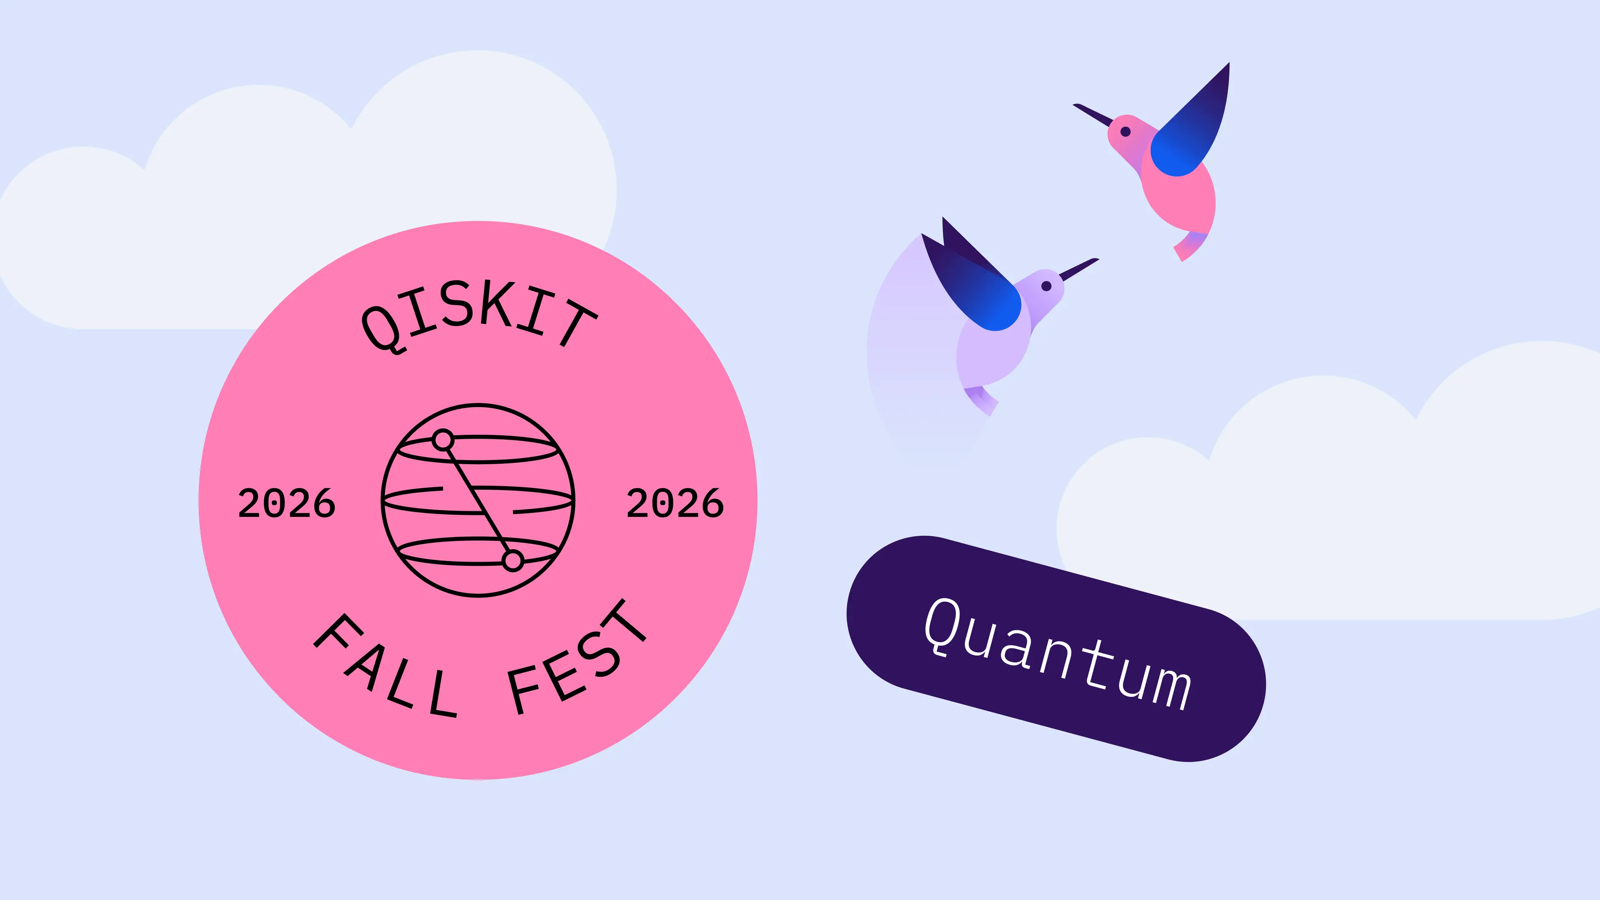
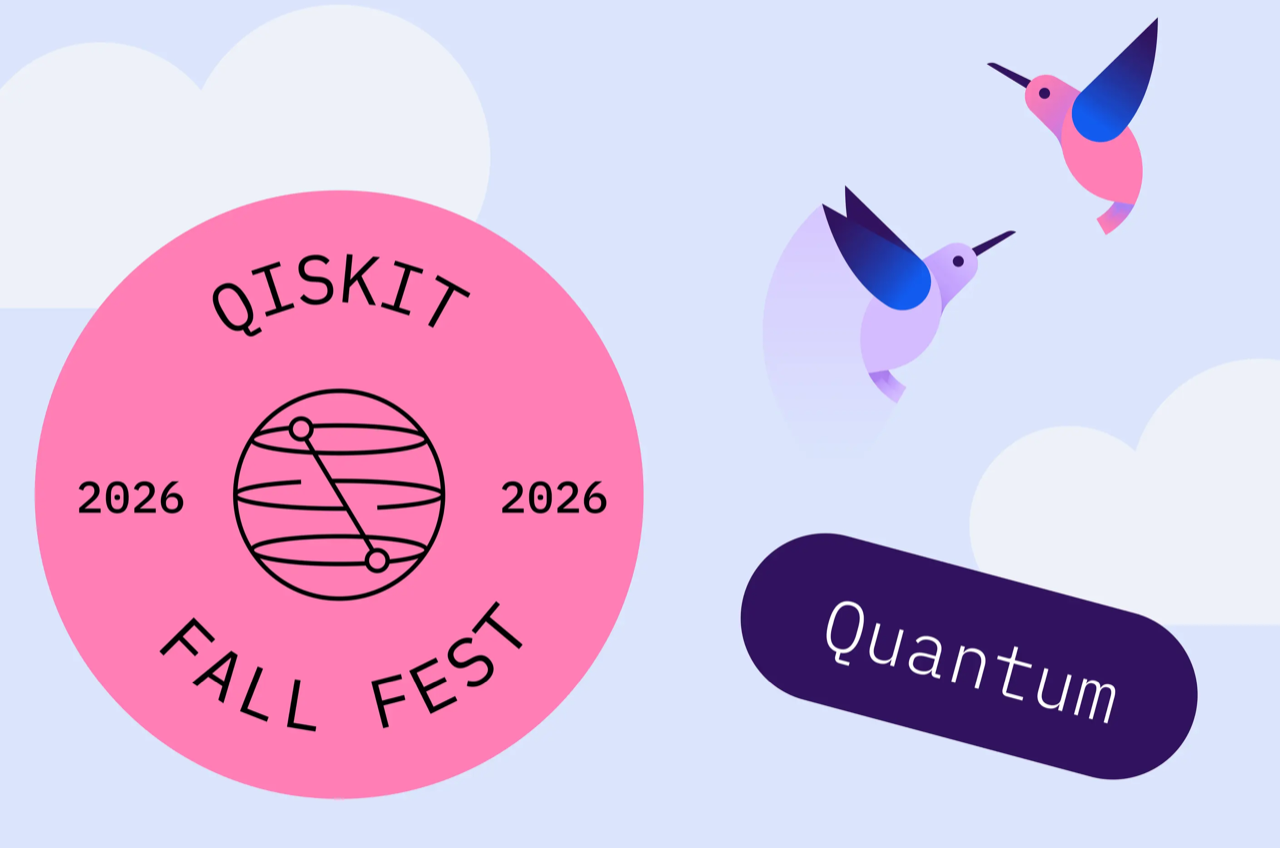
Crop the artwork to its content
The supplied image was 16:9 with a lot of empty sky, so next to a
short heading it read as a thin strip with dead space under it. Cropped
to the badge, both birds and the pill, it is now roughly 3:2 and the
composition fills its frame.

The image column is also wider than the text column now, at 1.25fr to
1fr, so the artwork carries the row rather than floating in it.

Smaller too: 1280x848 and 294KB, down from 1600x900.

diff --git a/qiskit-fall-fest-2026/index.html b/qiskit-fall-fest-2026/index.html
@@ -24,7 +24,7 @@
 <link rel="preconnect" href="https://fonts.googleapis.com">
 <link rel="preconnect" href="https://fonts.gstatic.com" crossorigin>
 <link rel="stylesheet" href="https://fonts.googleapis.com/css2?family=IBM+Plex+Mono:wght@400;500;600&family=IBM+Plex+Sans:wght@400;500;600&display=swap">
-<link rel="stylesheet" href="styles.css?v=10">
+<link rel="stylesheet" href="styles.css?v=11">
 </head>
 <body>
 
@@ -178,7 +178,7 @@
             how they relate to each other.</p>
         </div>
         <img class="eco-art" src="assets/qiskit-fall-fest-2026.png"
-             width="1600" height="900" loading="lazy" decoding="async"
+             width="1280" height="848" loading="lazy" decoding="async"
              alt="Qiskit Fall Fest 2026 artwork: the Fall Fest badge beside two hummingbirds and clouds.">
       </div>
 

diff --git a/qiskit-fall-fest-2026/styles.css b/qiskit-fall-fest-2026/styles.css
@@ -285,7 +285,7 @@ section.tint { background: var(--layer); }
 .ecosystem-lead { margin-top: 0; padding-top: 0; border-top: none; }
 .club-after { margin-top: 72px; padding-top: 44px; border-top: 1px solid var(--rule); }
 /* Heading and artwork side by side; the tree runs full width beneath. */
-.eco-head { display: grid; grid-template-columns: 1fr 1fr; gap: 52px; align-items: center; }
+.eco-head { display: grid; grid-template-columns: 1fr 1.25fr; gap: 44px; align-items: center; }
 .eco-art { width: 100%; height: auto; border: 1px solid var(--rule); }
 .eco-h { font-size: clamp(27px, 3.6vw, 40px); }
 .eco-lede { color: var(--ink-2); font-size: 17px; margin-top: 18px; max-width: 58ch; }

diff --git a/index.html b/index.html
@@ -18,7 +18,7 @@
 <link rel="preconnect" href="https://fonts.googleapis.com">
 <link rel="preconnect" href="https://fonts.gstatic.com" crossorigin>
 <link rel="stylesheet" href="https://fonts.googleapis.com/css2?family=IBM+Plex+Mono:wght@400;500;600&family=IBM+Plex+Sans:wght@400;500;600&display=swap">
-<link rel="stylesheet" href="styles.css?v=10">
+<link rel="stylesheet" href="styles.css?v=11">
 </head>
 <body>
 
